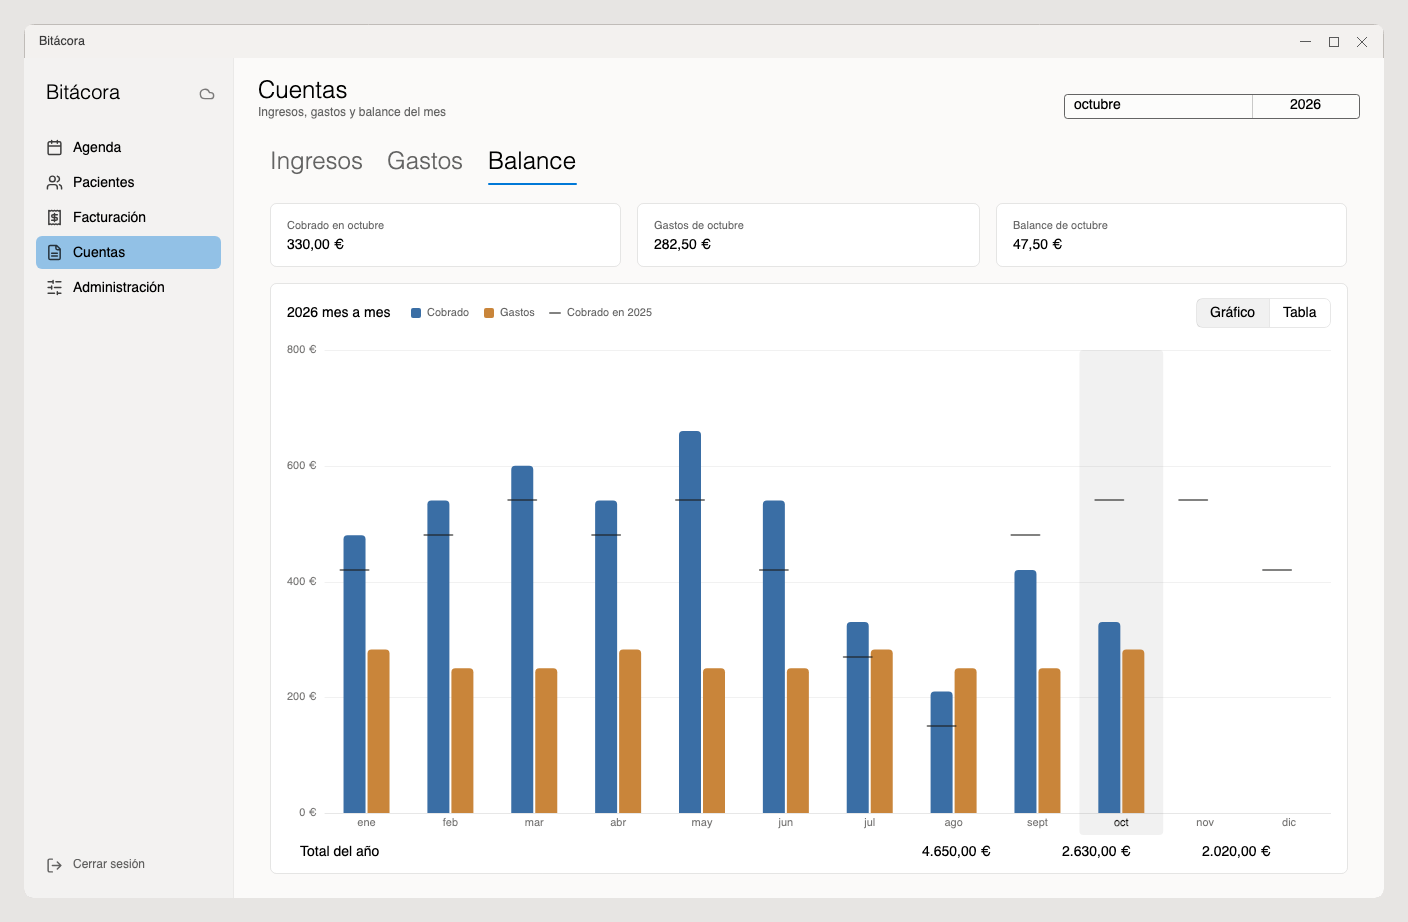
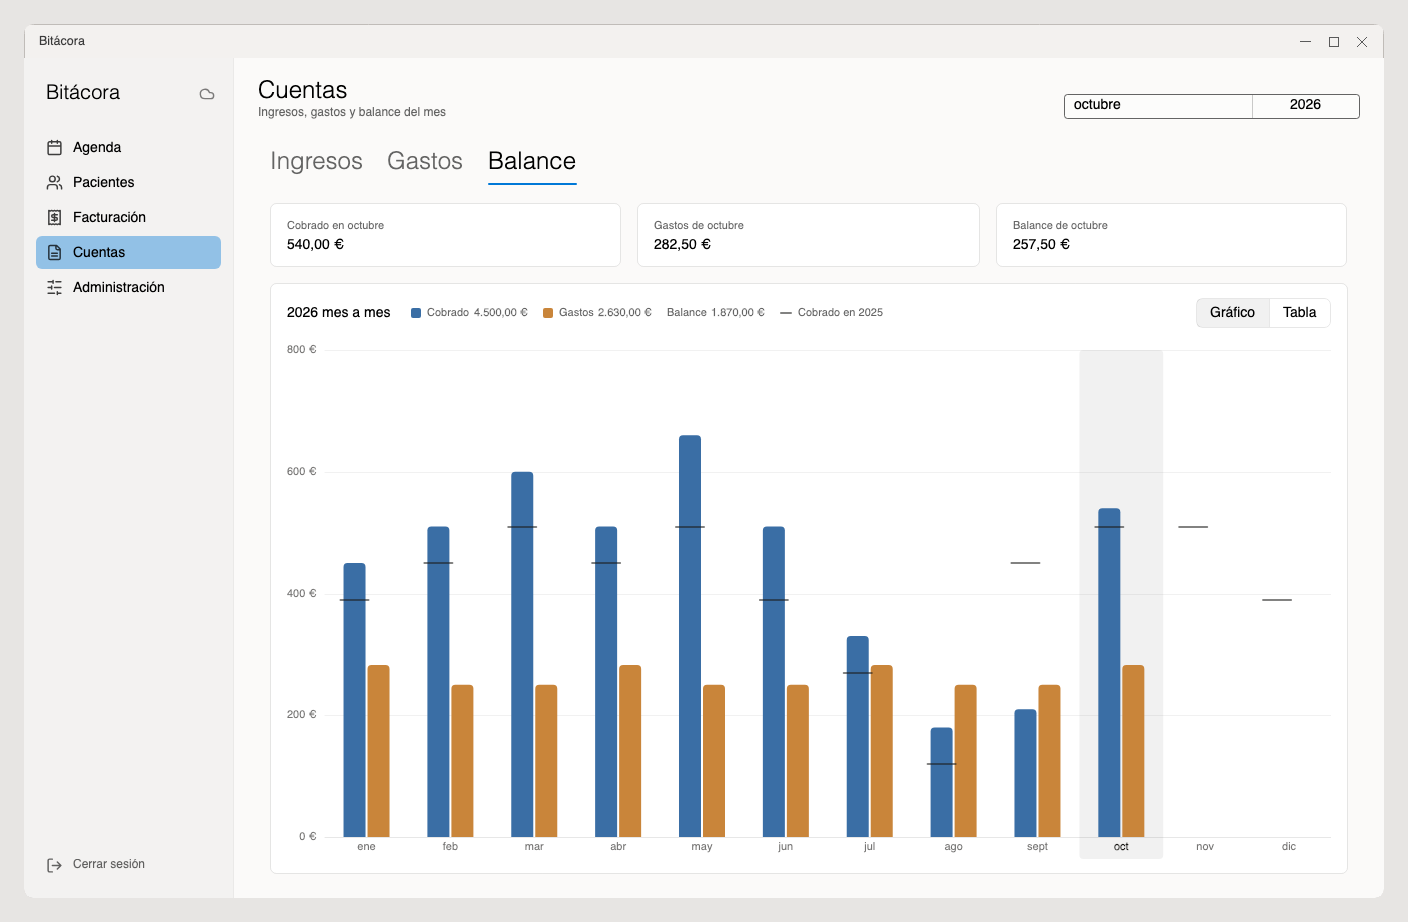
Actualizar la web para 0.1.20

diff --git a/MANUAL.md b/MANUAL.md
@@ -685,10 +685,11 @@ a PDF…**, que lo saca con el logotipo de marca de agua si se subió uno.
 ### Dictar en vez de escribir
 
 En la barra del editor, tanto en la historia como en los informes, está
-**Dictar**. Se pulsa, se habla, y se pulsa otra vez (ahora dice **Parar** y
-cuenta el tiempo, en rojo). Al cabo de unos segundos el texto aparece donde
-estaba el cursor, con su puntuación. Si no se había pinchado en el texto, va al
-final.
+**Dictar**. Se pulsa y se habla. **El texto va apareciendo mientras se dicta**:
+en cada pausa, lo dicho hasta ahí entra donde estaba el cursor, con su
+puntuación. Para acabar se pulsa otra vez (mientras graba dice **Parar** y
+cuenta el tiempo, en rojo); lo último que se dijo tarda un par de segundos en
+aparecer. Si no se había pinchado en el texto, va al final.
 
 Mientras graba, al lado del botón se mueven unas barras con la voz. **Si se habla
 y se quedan planas, no está oyendo**: el micrófono no es el que toca, está
@@ -698,15 +699,19 @@ de dónde activarlo (en Windows, Configuración › Privacidad y seguridad ›
 Micrófono).
 
 Lo dictado entra como si se hubiera tecleado: **se revisa antes de guardar**.
-Los nombres propios y las siglas son lo que más se equivoca. Funciona mejor a
-trozos, un párrafo cada vez, que dictando el informe entero de un tirón.
+Los nombres propios y las siglas son lo que más se equivoca. Ayuda hacer una
+pequeña pausa al terminar cada frase: es por donde se va cortando para escribir,
+y así cada trozo lleva frases enteras, con su punto. Si te paras a pensar a mitad
+de una frase, Bitácora puede tomarla por acabada y ponerle punto: se corrige al
+repasar. Se puede dictar un informe entero de un tirón.
 
 La primera vez pide descargar el reconocimiento de voz (unos 550 MB). Es una sola
 vez; después funciona **sin internet**.
 
 > **La voz no sale del ordenador.** Se transcribe en el propio equipo, no en
 > ningún servicio de internet, y la grabación no se guarda: en cuanto está el
-> texto, se borra. Si se sale del editor mientras graba, lo grabado se tira.
+> texto de cada frase, se borra. Si se sale del editor mientras graba, lo que
+> faltaba por escribir se tira.
 >
 > Es para dictar, no para grabar la sesión con el paciente.
 
@@ -854,13 +859,15 @@ que se puede ver de dos maneras con el selector de la derecha:
   mes, con el mes elegido sombreado detrás. Una **raya gris** sobre cada barra azul
   marca lo que se cobró ese mismo mes del año anterior: si la barra pasa de la raya,
   ese mes ha entrado más que entonces. Al pasar el ratón por encima de un mes salen
-  sus cifras, también la del año anterior. Si el año anterior no tuvo ningún cobro
-  —el primer año con Bitácora, por ejemplo—, la raya no sale.
+  sus cifras, también la del año anterior, y **al pulsarlo se elige ese mes**, igual
+  que en el selector de arriba: cambian las cifras del mes y las otras dos pestañas.
+  Si el año anterior no tuvo ningún cobro —el primer año con Bitácora, por ejemplo—,
+  la raya no sale.
 - **Tabla**: las mismas tres cifras en filas, con el mes elegido en negrita. Un
   balance negativo sale en rojo.
 
-En los dos casos, el **total del año** queda debajo. Bitácora recuerda cuál de las
-dos se dejó puesta la última vez.
+El **total del año** sale en la leyenda del gráfico, al lado de cada color, y en la
+tabla, en la última fila. Bitácora recuerda cuál de las dos se dejó puesta la última vez.
 
 El año es el **natural**, de enero a diciembre, que es como cuentan Hacienda y la
 gestoría. Para ver otro año basta con elegir cualquier mes de ese año arriba.
